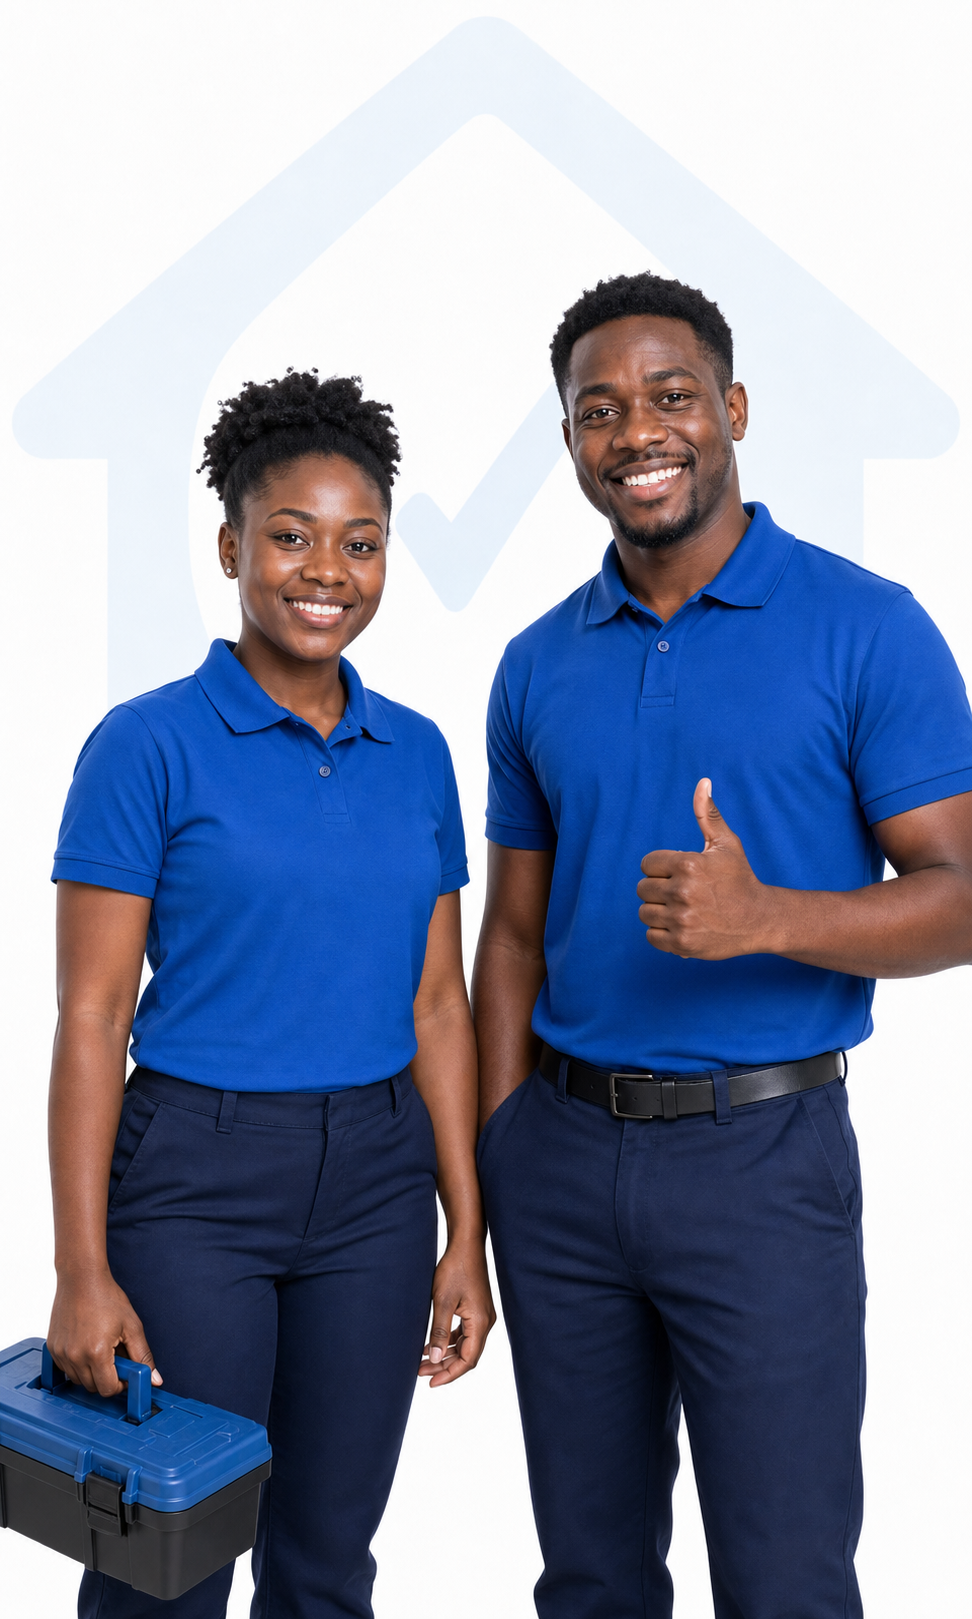
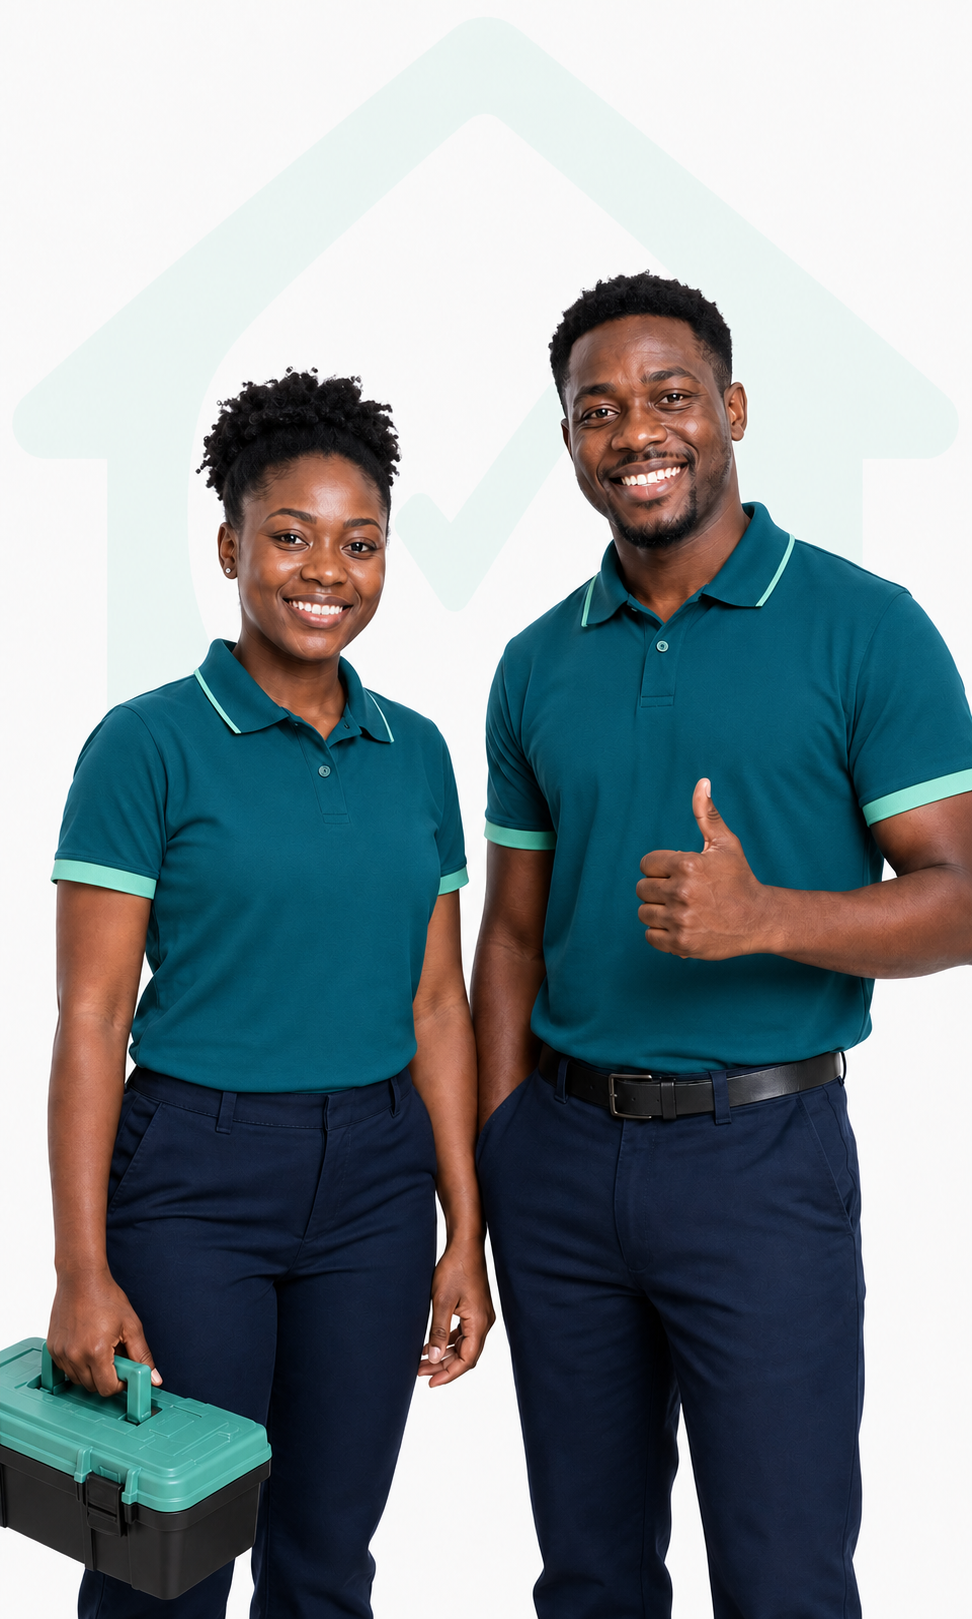
feat(client-site): apply final Wele identity

diff --git a/src/HomeService.Client/wwwroot/app.css b/src/HomeService.Client/wwwroot/app.css
@@ -1,7 +1,9 @@
 :root {
-    --wele-blue: #1769ff;
-    --wele-blue-deep: #0753de;
-    --wele-blue-soft: #edf4ff;
+    --wele-blue: #0C5A66;
+    --wele-blue-deep: #084A53;
+    --wele-blue-soft: #EAF7F1;
+    --wele-mint: #9EDFBF;
+    --wele-surface: #F3F5F7;
     --wele-ink: #101828;
     --wele-muted: #667085;
     --wele-line: #e6eaf0;
@@ -229,7 +231,7 @@ img {
 }
 
 .client-services-menu a:not(.client-services-menu-all):hover {
-    background: #f3f7ff;
+    background: #F3F5F7;
 }
 
 .client-services-menu a > span {
@@ -394,7 +396,7 @@ img {
 .client-button-blue {
     background: var(--wele-blue);
     color: #fff;
-    box-shadow: 0 12px 28px rgba(23, 105, 255, .23);
+    box-shadow: 0 12px 28px rgba(12, 90, 102, .23);
 }
 
 .client-button-blue:hover {
@@ -505,7 +507,7 @@ img {
 
 .client-booking-fields label:focus-within {
     border-color: var(--wele-blue);
-    box-shadow: 0 0 0 3px rgba(23, 105, 255, .1);
+    box-shadow: 0 0 0 3px rgba(12, 90, 102, .1);
 }
 
 .client-booking-fields label > span {
@@ -571,7 +573,7 @@ img {
 .client-suggestion-list > button:hover,
 .client-suggestion-list > button:focus-visible {
     outline: none;
-    background: #f3f7ff;
+    background: #F3F5F7;
 }
 
 .client-suggestion-list > button > span:last-child {
@@ -705,9 +707,9 @@ img {
     place-items: center;
     border: 1px solid #d7e5ff;
     border-radius: 12px;
-    background: #eef4ff;
+    background: #EAF7F1;
     color: var(--wele-blue);
-    box-shadow: 0 7px 18px rgba(23, 105, 255, .08);
+    box-shadow: 0 7px 18px rgba(12, 90, 102, .08);
 }
 
 .client-trust-strip svg {
@@ -798,7 +800,7 @@ img {
     position: relative;
     place-items: center;
     overflow: hidden;
-    background: linear-gradient(140deg, #edf4ff, #d5e4ff);
+    background: linear-gradient(140deg, #EAF7F1, #d5e4ff);
 }
 
 .client-service-placeholder::before,
@@ -833,7 +835,7 @@ img {
     border-radius: 26px;
     background: #fff;
     color: var(--wele-blue);
-    box-shadow: 0 16px 32px rgba(23, 105, 255, .18);
+    box-shadow: 0 16px 32px rgba(12, 90, 102, .18);
     font-size: 1.55rem;
     font-weight: 900;
 }
@@ -1006,7 +1008,7 @@ img {
     overflow: hidden;
     min-height: 610px;
     border-radius: 34px;
-    background: linear-gradient(145deg, #edf4ff 0%, #fff 65%);
+    background: linear-gradient(145deg, #EAF7F1 0%, #fff 65%);
 }
 
 .client-confidence-media > img {
@@ -1069,10 +1071,10 @@ img {
     align-items: center;
     gap: 16px;
     padding: 22px;
-    border: 1px solid rgba(23, 105, 255, .13);
+    border: 1px solid rgba(12, 90, 102, .13);
     border-radius: 22px;
     background: #fff;
-    box-shadow: 0 24px 55px rgba(23, 105, 255, .13);
+    box-shadow: 0 24px 55px rgba(12, 90, 102, .13);
 }
 
 .client-repeat-avatar {
@@ -1412,7 +1414,7 @@ img {
     font-size: 1.7rem;
     font-weight: 350;
     line-height: 1;
-    box-shadow: 0 7px 15px rgba(23, 105, 255, .25);
+    box-shadow: 0 7px 15px rgba(12, 90, 102, .25);
 }
 
 .client-app-copy h2 {
@@ -1517,7 +1519,7 @@ img {
 
 .client-qr-card:hover {
     transform: translateY(-2px);
-    border-color: rgba(23, 105, 255, .36);
+    border-color: rgba(12, 90, 102, .36);
     box-shadow: 0 16px 34px rgba(16, 24, 40, .11);
 }
 

diff --git a/src/HomeService.Client/Components/Pages/Service.razor.css b/src/HomeService.Client/Components/Pages/Service.razor.css
@@ -143,7 +143,7 @@
 }
 
 .seo-services-menu a:hover {
-    background: #f3f7ff;
+    background: #F3F5F7;
 }
 
 .seo-services-menu-all {
@@ -263,7 +263,7 @@
     gap: 10px;
     color: #fff;
     background: var(--wele-blue);
-    box-shadow: 0 14px 28px rgba(23, 105, 255, .2);
+    box-shadow: 0 14px 28px rgba(12, 90, 102, .2);
 }
 
 .seo-secondary {
@@ -654,7 +654,7 @@
     height: 32px;
     border-radius: 50%;
     color: var(--wele-blue);
-    background: #edf4ff;
+    background: #EAF7F1;
     transition: color .2s ease, background .2s ease, transform .2s ease;
 }
 
@@ -677,7 +677,7 @@
 .seo-final {
     padding: 82px 24px;
     text-align: center;
-    background: #eef4ff;
+    background: #EAF7F1;
 }
 
 .seo-final h2 {
